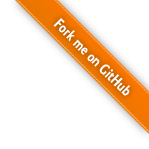
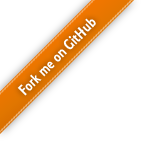
post

diff --git a/css/screen.css b/css/screen.css
@@ -638,10 +638,14 @@ a.thumbnail:hover{border-color:#0088cc;-webkit-box-shadow:0 1px 4px rgba(0, 105,
 .clear{clear:both;}
 a{color:#0088cc;}a:visited{color:#0088cc;}
 a:hover{color:#005580;}
-.header{z-index:10;position:fixed;background:white;top:0;width:100%;padding:30px 0 0 0;text-align:center;cursor:pointer;}.header a:visited,.header a:hover{color:#0088cc;}
+.header{z-index:10;position:fixed;background:white;top:0;width:100%;padding:30px 0 0 0;cursor:pointer;}.header h1{text-align:center;}
+.header a:visited,.header a:hover{color:#0088cc;}
 .header .sdw{border-top:solid 1px #eeeeee;}
 .header.scroll .sdw{background-image:-webkit-gradient(linear, left top, left bottom, from(rgba(0, 0, 0, 0.25)), to(transparent));-webkit-mask-box-image:-webkit-gradient(linear, left top, right top, color-stop(0, rgba(0, 0, 0, 0)), color-stop(0.5, rgba(0, 0, 0, 0.8)), color-stop(1, rgba(0, 0, 0, 0)));height:6px;opacity:.6;}
-.about h4{text-align:center;font-weight:bold;}
+.header ul.contact-header{list-style:none;margin:10px 0 0 0;float:right;}.header ul.contact-header li{float:right;font-size:16px;margin-left:10px;-webkit-transition:all 0.4s linear;-moz-transition:all 0.4s linear;-ms-transition:all 0.4s linear;-o-transition:all 0.4s linear;transition:all 0.4s linear;-webkit-transition:all 0.4s linear;-moz-transition:all 0.4s linear;-ms-transition:all 0.4s linear;-o-transition:all 0.4s linear;transition:all 0.4s linear;}.header ul.contact-header li a{color:#797F82;-webkit-transition:color 0.2s linear;-moz-transition:color 0.2s linear;-ms-transition:color 0.2s linear;-o-transition:color 0.2s linear;transition:color 0.2s linear;-webkit-transition:color 0.2s linear;-moz-transition:color 0.2s linear;-ms-transition:color 0.2s linear;-o-transition:color 0.2s linear;transition:color 0.2s linear;}
+.header ul.contact-header li a:hover{color:#575D60;}
+.header ul.contact-header li:hover{-webkit-transform:rotate(380deg);-moz-transform:rotate(380deg);-ms-transform:rotate(380deg);-o-transform:rotate(380deg);transform:rotate(380deg);-webkit-transform:rotate(380deg);-moz-transform:rotate(380deg);-ms-transform:rotate(380deg);-o-transform:rotate(380deg);transform:rotate(380deg);}
+@media (min-width:980px){ul.contact-header li:first-child{margin-right:70px;}}.about h4{text-align:center;font-weight:bold;}
 .about span{margin:0 8px;}
 .about a{color:#8085C1;}.about a:visited{color:#8085C1;}
 .about hr{margin-top:4px;}
@@ -670,4 +674,12 @@ ul.posts span.read-rest a{color:#8085C1;}ul.posts span.read-rest a:visited{color
 .footer .rss{margin-top:1.1em;}.footer .rss img{height:5.5em;border:0;}
 .footer p{margin:1em 0;}
 .footer.show{margin-bottom:0;}
-@media (max-width:767px){.contact{display:none !important;}}@media (min-width:480px){a#github-flag img{z-index:1000;position:fixed;top:0;right:0;border:0;}}@media (max-width:480px){a#github-flag{display:none;}a#github-flag img{display:none;}}
+@media (max-width:767px){.contact{display:none !important;}}@media (min-width:480px){a#github-flag img{z-index:1000;position:fixed;top:0;left:0;border:0;}}@media (max-width:480px){a#github-flag{display:none;}a#github-flag img{display:none;}}
+@charset "UTF-8";
+@font-face{font-family:'fontello';src:url('fonts/fontello.eot');src:url('fonts/fontello.eot?#iefix') format('embedded-opentype'),url('fonts/fontello.woff') format('woff'),url('fonts/fontello.ttf') format('truetype'),url('fonts/fontello.svg#fontello') format('svg');font-weight:normal;font-style:normal;}[class^="icon-"],[class*=" icon-"]{font-family:fontello;font-style:normal;speak:none;display:inline-block;width:1.1em;margin-right:.1em;text-align:center;}
+.the-icons li{font-size:14px;line-height:24px;height:24px;}
+.icon-mail:before{content:"✉";}
+.icon-rss-alt:before{content:"";}
+.icon-twitter-bird-1:before{content:"";}
+.icon-github:before{content:"";}
+.icon-googleplus-rect:before{content:"";}

diff --git a/archives/tags.html b/archives/tags.html
@@ -15,7 +15,18 @@
 </head>
 <body>
 <header class="header">
-  <h1><a href="/" title="Home">Sheimi's Hive</a></h1>
+  <div class="container">
+    <div class="row">
+      <ul class="contact-header">
+        <li><a href="mailto:sheimi.zhang@gmail.com"><i class="icon-mail"></i></a></li>
+        <li><a href="http://feeds.feedburner.com/sheimi-hive"><i class="icon-rss-alt"></i></a></li>
+        <li><a href="http://twitter.com/sheimi_nju"><i class="icon-twitter-bird-1"></i></a></li>
+        <li><a href="https://plus.google.com/102631912588694400657/posts"><i class="icon-googleplus-rect"></i></a></li>
+        <li><a href="https://github.com/sheimi/"><i class="icon-github"></i></a></li>
+      </ul>
+      <h1 class="span6 offset3"><a href="/" title="Home">Sheimi's Hive</a></h1>
+    </div>
+  </div>
   <div class="container sdw"></div>
 </header>
 <section class="container about">
@@ -34,25 +45,25 @@
   <h2>Tag Cloud</h2>
   <div class="cloud">
     <a style="font-size: 1.5em" href="/tags.html#all">All</a>
-    <a style='font-size: 1.3em' href='/archives/tags.html#source_code'>source_code</a>
+    <a style='font-size: 0.8em' href='/archives/tags.html#jar'>jar</a>
+<a style='font-size: 0.8em' href='/archives/tags.html#java'>java</a>
+<a style='font-size: 0.8em' href='/archives/tags.html#jni'>jni</a>
+<a style='font-size: 0.8em' href='/archives/tags.html#crawler'>crawler</a>
+<a style='font-size: 1.3em' href='/archives/tags.html#source_code'>source_code</a>
 <a style='font-size: 0.8em' href='/archives/tags.html#software_testing'>software_testing</a>
-<a style='font-size: 0.8em' href='/archives/tags.html#jar'>jar</a>
-<a style='font-size: 1.3em' href='/archives/tags.html#architecture'>architecture</a>
+<a style='font-size: 0.8em' href='/archives/tags.html#wish'>wish</a>
+<a style='font-size: 1.3em' href='/archives/tags.html#hadoop'>hadoop</a>
 <a style='font-size: 0.8em' href='/archives/tags.html#summary'>summary</a>
 <a style='font-size: 0.8em' href='/archives/tags.html#git'>git</a>
-<a style='font-size: 0.8em' href='/archives/tags.html#java'>java</a>
-<a style='font-size: 0.8em' href='/archives/tags.html#github'>github</a>
-<a style='font-size: 0.8em' href='/archives/tags.html#wish'>wish</a>
+<a style='font-size: 1.3em' href='/archives/tags.html#architecture'>architecture</a>
 <a style='font-size: 0.8em' href='/archives/tags.html#tech'>tech</a>
 <a style='font-size: 0.8em' href='/archives/tags.html#complain'>complain</a>
-<a style='font-size: 1.3em' href='/archives/tags.html#school_life'>school_life</a>
-<a style='font-size: 1.3em' href='/archives/tags.html#hadoop'>hadoop</a>
-<a style='font-size: 0.8em' href='/archives/tags.html#crawler'>crawler</a>
+<a style='font-size: 2.0em' href='/archives/tags.html#study'>study</a>
 <a style='font-size: 0.8em' href='/archives/tags.html#blog'>blog</a>
 <a style='font-size: 1.3em' href='/archives/tags.html#nutch'>nutch</a>
-<a style='font-size: 2.0em' href='/archives/tags.html#study'>study</a>
-<a style='font-size: 0.8em' href='/archives/tags.html#jni'>jni</a>
+<a style='font-size: 0.8em' href='/archives/tags.html#github'>github</a>
 <a style='font-size: 1.3em' href='/archives/tags.html#thinking'>thinking</a>
+<a style='font-size: 1.3em' href='/archives/tags.html#school_life'>school_life</a>
 
   </div>
 </section>
@@ -153,7 +164,7 @@ $(document).ready(function() {
             <p>
               Github:  <a href="http://github.com/sheimi/">github.com/sheimi</a><br>
               Twitter: <a href="http://twitter.com/sheimi_nju/">@sheimi_nju</a><br>
-              Email:   <a href="sheimi.zhang@gmail.com">sheimi.zhang@gmail.com</a><br>
+              Email:   <a href="mailto:sheimi.zhang@gmail.com">sheimi.zhang@gmail.com</a><br>
             </p>
           </section>
           <section class="copyleft span3 offset1">

diff --git a/index.html b/index.html
@@ -15,7 +15,18 @@
 </head>
 <body>
 <header class="header">
-  <h1><a href="/" title="Home">Sheimi's Hive</a></h1>
+  <div class="container">
+    <div class="row">
+      <ul class="contact-header">
+        <li><a href="mailto:sheimi.zhang@gmail.com"><i class="icon-mail"></i></a></li>
+        <li><a href="http://feeds.feedburner.com/sheimi-hive"><i class="icon-rss-alt"></i></a></li>
+        <li><a href="http://twitter.com/sheimi_nju"><i class="icon-twitter-bird-1"></i></a></li>
+        <li><a href="https://plus.google.com/102631912588694400657/posts"><i class="icon-googleplus-rect"></i></a></li>
+        <li><a href="https://github.com/sheimi/"><i class="icon-github"></i></a></li>
+      </ul>
+      <h1 class="span6 offset3"><a href="/" title="Home">Sheimi's Hive</a></h1>
+    </div>
+  </div>
   <div class="container sdw"></div>
 </header>
 <section class="container about">
@@ -216,7 +227,7 @@
             <p>
               Github:  <a href="http://github.com/sheimi/">github.com/sheimi</a><br>
               Twitter: <a href="http://twitter.com/sheimi_nju/">@sheimi_nju</a><br>
-              Email:   <a href="sheimi.zhang@gmail.com">sheimi.zhang@gmail.com</a><br>
+              Email:   <a href="mailto:sheimi.zhang@gmail.com">sheimi.zhang@gmail.com</a><br>
             </p>
           </section>
           <section class="copyleft span3 offset1">

diff --git a/_layouts/default.html b/_layouts/default.html
@@ -15,7 +15,18 @@
 </head>
 <body>
 <header class="header">
-  <h1><a href="/" title="Home">Sheimi's Hive</a></h1>
+  <div class="container">
+    <div class="row">
+      <ul class="contact-header">
+        <li><a href="mailto:sheimi.zhang@gmail.com"><i class="icon-mail"></i></a></li>
+        <li><a href="http://feeds.feedburner.com/sheimi-hive"><i class="icon-rss-alt"></i></a></li>
+        <li><a href="http://twitter.com/sheimi_nju"><i class="icon-twitter-bird-1"></i></a></li>
+        <li><a href="https://plus.google.com/102631912588694400657/posts"><i class="icon-googleplus-rect"></i></a></li>
+        <li><a href="https://github.com/sheimi/"><i class="icon-github"></i></a></li>
+      </ul>
+      <h1 class="span6 offset3"><a href="/" title="Home">Sheimi's Hive</a></h1>
+    </div>
+  </div>
   <div class="container sdw"></div>
 </header>
 <section class="container about">
@@ -50,7 +61,7 @@
             <p>
               Github:  <a href="http://github.com/sheimi/">github.com/sheimi</a><br>
               Twitter: <a href="http://twitter.com/sheimi_nju/">@sheimi_nju</a><br>
-              Email:   <a href="sheimi.zhang@gmail.com">sheimi.zhang@gmail.com</a><br>
+              Email:   <a href="mailto:sheimi.zhang@gmail.com">sheimi.zhang@gmail.com</a><br>
             </p>
           </section>
           <section class="copyleft span3 offset1">

diff --git a/css/demo.html b/css/demo.html
@@ -1,0 +1,37 @@
+<!DOCTYPE html><!--[if lt IE 7 ]><html class="ie ie6" lang="en"> <![endif]-->
+<!--[if IE 7 ]><html class="ie ie7" lang="en"> <![endif]-->
+<!--[if IE 8 ]><html class="ie ie8" lang="en"> <![endif]-->
+<!--[if (gte IE 9)|!(IE)]><!--><html lang="en"> <!--<![endif]-->
+<head>
+  <!--[if lt IE 9]>
+  <script src="http://html5shim.googlecode.com/svn/trunk/html5.js"></script>
+  <![endif]-->
+  <link rel="stylesheet" href="demo/bootstrap/css/bootstrap.css">
+  <link rel="stylesheet" href="demo/demo.css">
+  <link rel="stylesheet" href="fontello.css">
+</head>
+<body>
+  <div class="container">
+    <div class="page-header">
+      <h1>fontello font icons demo</h1>
+    </div>
+    <div class="row">
+      <div class="span3">
+        <ul class="the-icons"><li><i class="icon-mail"></i> icon-mail</li><li><i class="icon-rss-alt"></i> icon-rss-alt</li>
+        </ul>
+      </div>
+      <div class="span3">
+        <ul class="the-icons"><li><i class="icon-twitter-bird-1"></i> icon-twitter-bird-1</li><li><i class="icon-github"></i> icon-github</li>
+        </ul>
+      </div>
+      <div class="span3">
+        <ul class="the-icons"><li><i class="icon-googleplus-rect"></i> icon-googleplus-rect</li>
+        </ul>
+      </div>
+      <div class="span3">
+        <ul class="the-icons">
+        </ul>
+      </div>
+    </div>
+  </div>
+</body>

diff --git a/css/screen.less b/css/screen.less
@@ -25,8 +25,10 @@ a {
   top: 0;
   width: 100%;
   padding: 30px 0 0 0;
-  text-align: center;
   cursor: pointer;
+  h1 {
+    text-align: center;
+  }
   a {
     &:visited, &:hover { color: @linkColor; }
   }
@@ -40,6 +42,34 @@ a {
     //background-image: -o-linear-gradient(top, rgba(0, 0, 0, 0.1), transparent);
     height: 6px;
     opacity: .6; 
+  }
+  ul.contact-header {
+    list-style: none;
+    margin: 10px 0 0 0;
+    float: right;
+    li {
+      float: right;
+      font-size: 16px;
+      margin-left: 10px;
+      @transition: all 0.4s linear;
+      .transition(@transition);
+      a {
+        color: #797F82;
+        @transition: color 0.2s linear;
+        .transition(@transition);
+      }
+      a:hover {
+        color: #575D60;
+      }
+    }
+    li:hover {
+      .rotate(380deg);
+    }
+  }
+}
+@media (min-width: 980px) {
+  ul.contact-header li:first-child {
+    margin-right: 70px;
   }
 }
 .about {
@@ -250,7 +280,7 @@ ul.posts {
       z-index: 1000;
       position: fixed; 
       top: 0;
-      right: 0;
+      left: 0;
       border: 0;
     }
   }

diff --git a/css/fontello.css b/css/fontello.css
@@ -1,0 +1,34 @@
+@charset "UTF-8";
+
+@font-face {
+  font-family: 'fontello';
+  src: url('fonts/fontello.eot');
+  src: url('fonts/fontello.eot?#iefix') format('embedded-opentype'),
+       url('fonts/fontello.woff') format('woff'),
+       url('fonts/fontello.ttf') format('truetype'),
+       url('fonts/fontello.svg#fontello') format('svg');
+  font-weight: normal; font-style: normal;
+}
+
+[class^="icon-"], [class*=" icon-"] {
+  font-family: fontello;
+  font-style: normal;
+  speak: none;
+
+  display: inline-block;
+  width: 1.1em;
+  margin-right: .1em;
+  text-align: center;
+}
+
+.the-icons li {
+  font-size: 14px;
+  line-height: 24px;
+  height: 24px;
+}
+
+.icon-mail:before { content: "✉"; } /* '\2709' */
+.icon-rss-alt:before { content: ""; } /* '\e73b' */
+.icon-twitter-bird-1:before { content: ""; } /* '\e800' */
+.icon-github:before { content: ""; } /* '\f308' */
+.icon-googleplus-rect:before { content: ""; } /* '\f309' */
